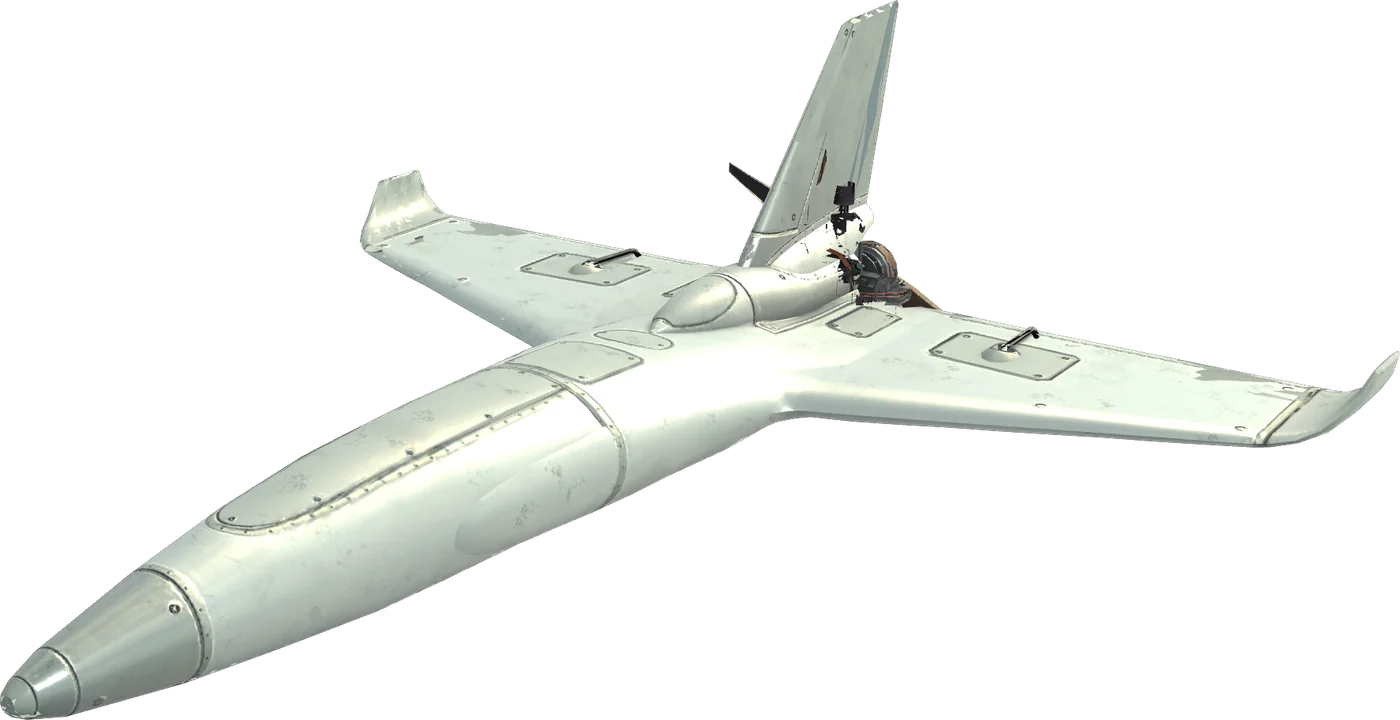
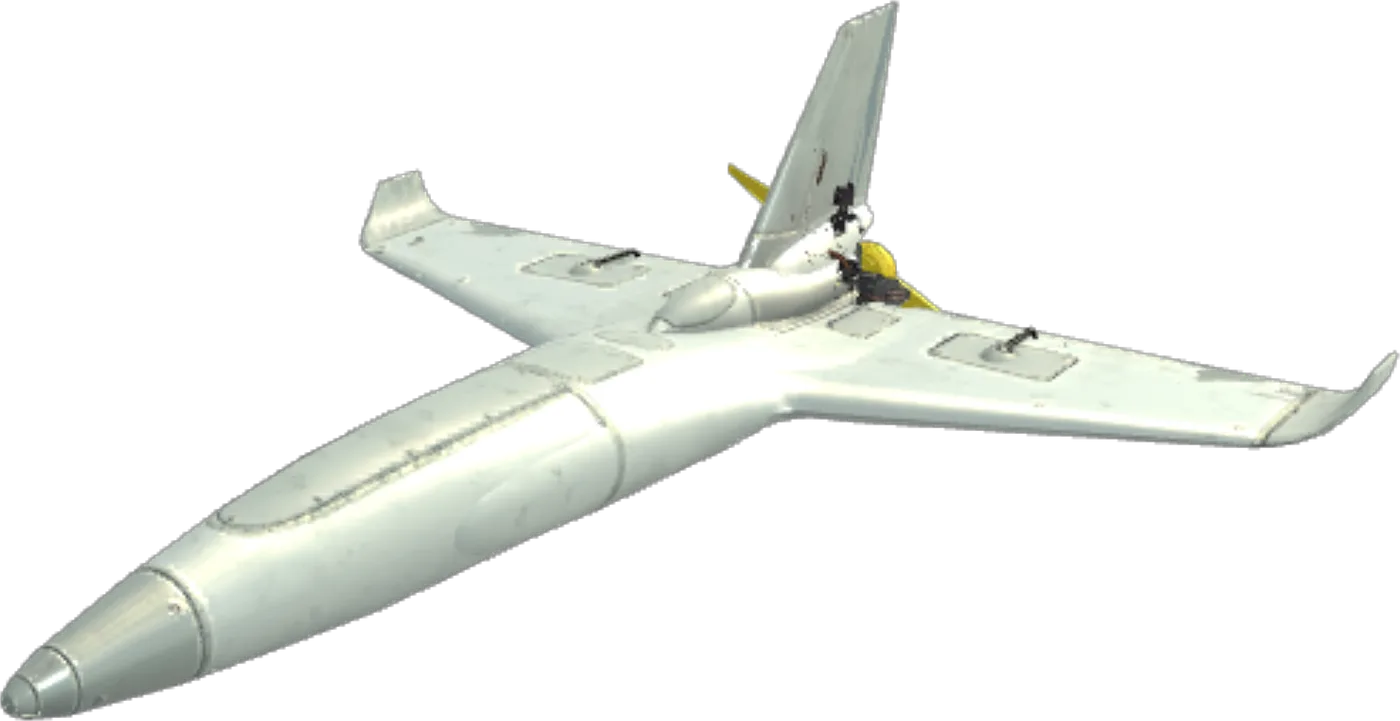
Refresh aircraft and share art for the approved bright propeller release

diff --git a/site/nanawing/aircraft/index.html b/site/nanawing/aircraft/index.html
@@ -1,8 +1,8 @@
-<!doctype html><html lang="en"><head><meta charset="utf-8"><script>if(location.hostname==='www.narenana.com'){var ga=document.createElement('script');ga.async=true;ga.src='https://www.googletagmanager.com/gtag/js?id=G-1KY518LPBH';document.head.appendChild(ga);window.dataLayer=window.dataLayer||[];function gtag(){dataLayer.push(arguments)}gtag('js',new Date());gtag('config','G-1KY518LPBH')}</script><meta name="viewport" content="width=device-width,initial-scale=1"><title>Nanawing aircraft | Pick your wing and fly it free | narenana</title><meta name="description" content="Fly free in your browser or on your phone: start on a trainer, thread the WUDFLY Spectre through giant oaks, or snap the TBS Chupito (Team BlackSheep) round at 360°/s."><meta name="robots" content="index,follow,max-image-preview:large"><link rel="canonical" href="https://www.narenana.com/nanawing/aircraft/"><meta name="theme-color" content="#087bc1"><link rel="icon" href="/assets/avatar.jpg?v=49424a6497"><meta property="og:type" content="website"><meta property="og:site_name" content="narenana"><meta property="og:title" content="Nanawing: fly the WUDFLY Spectre free"><meta property="og:description" content="Thread the 3D-printed, twin-motor WUDFLY Spectre through giant oaks, then try 5 more aircraft. Free in your browser or on your phone."><meta property="og:url" content="https://www.narenana.com/nanawing/aircraft/"><meta property="og:image" content="https://www.narenana.com/nanawing/aircraft/spectre-share-v2.jpg"><meta name="twitter:card" content="summary_large_image"><meta name="twitter:title" content="Nanawing: fly the WUDFLY Spectre free"><meta name="twitter:description" content="Thread the 3D-printed, twin-motor WUDFLY Spectre through giant oaks, then try 5 more aircraft. Free in your browser or on your phone."><meta name="twitter:image" content="https://www.narenana.com/nanawing/aircraft/spectre-share-v2.jpg"><meta property="og:image:alt" content="The WUDFLY Spectre, a white and yellow twin-motor wing, on a blue card that reads: Fly the WUDFLY Spectre. Thread it through giant oaks, then race it on Estate Run."><meta name="twitter:image:alt" content="The WUDFLY Spectre, a white and yellow twin-motor wing, on a blue card that reads: Fly the WUDFLY Spectre. Thread it through giant oaks, then race it on Estate Run."><link rel="stylesheet" href="/assets/family/fonts.css?v=c848c473a8"><link rel="stylesheet" href="/assets/editorial.css?v=f64f49da02"><link rel="stylesheet" href="/assets/family/shell.css?v=dfbc6fd384"><script type="application/ld+json">{"@context":"https://schema.org","@graph":[{"@type":"WebPage","@id":"https://www.narenana.com/nanawing/aircraft/","url":"https://www.narenana.com/nanawing/aircraft/","name":"Nanawing aircraft | Pick your wing and fly it free","description":"Fly free in your browser or on your phone: start on a trainer, thread the WUDFLY Spectre through giant oaks, or snap the TBS Chupito (Team BlackSheep) round at 360°/s.","isPartOf":{"@id":"https://www.narenana.com/#website"},"about":{"@id":"https://sim.narenana.com/#app"}},{"@type":"BreadcrumbList","itemListElement":[{"@type":"ListItem","position":1,"name":"Home","item":"https://www.narenana.com/"},{"@type":"ListItem","position":2,"name":"Nanawing aircraft","item":"https://www.narenana.com/nanawing/aircraft/"}]},{"@type":"ItemList","name":"Nanawing aircraft","itemListElement":[{"@type":"ListItem","position":1,"name":"WUDFLY Spectre","url":"https://www.narenana.com/nanawing/aircraft/#spectre","image":"https://www.narenana.com/assets/nanawing/aircraft/spectre-photo-1200.webp?v=4365a38855"},{"@type":"ListItem","position":2,"name":"Nanawing One","url":"https://www.narenana.com/nanawing/aircraft/#desertwing","image":"https://www.narenana.com/assets/nanawing/aircraft/desertwing-1400.webp?v=f5a654329e"},{"@type":"ListItem","position":3,"name":"Morok UAV","url":"https://www.narenana.com/nanawing/aircraft/#morok","image":"https://www.narenana.com/assets/nanawing/aircraft/morok-1400.webp?v=7be7a0a8c3"},{"@type":"ListItem","position":4,"name":"Sukhoi S-70 Okhotnik","url":"https://www.narenana.com/nanawing/aircraft/#sukhoi","image":"https://www.narenana.com/assets/nanawing/aircraft/sukhoi-1400.webp?v=fbcd52112d"},{"@type":"ListItem","position":5,"name":"TBS Chupito","url":"https://www.narenana.com/nanawing/aircraft/#chupito","image":"https://www.narenana.com/assets/nanawing/aircraft/chupito-1400.webp?v=29c97fc30d"},{"@type":"ListItem","position":6,"name":"Darkwing","url":"https://www.narenana.com/nanawing/aircraft/#darkwing","image":"https://www.narenana.com/assets/nanawing/aircraft/darkwing-1400.webp?v=8d6f057a6d"}]},{"@type":"FAQPage","mainEntity":[{"@type":"Question","name":"How does this help me at the RC field?","acceptedAnswer":{"@type":"Answer","text":"Practise stick inputs, throttle management and planning your turns, and feel how different aircraft respond."}},{"@type":"Question","name":"Which Nanawing aircraft should I fly first?","acceptedAnswer":{"@type":"Answer","text":"Start with the Nanawing One if you are learning the controls. Try the WUDFLY Spectre for tight gaps and yaw. Move to the Morok and Sukhoi to feel how more speed changes your timing, to the TBS Chupito for the quickest roll in the hangar, and to the Darkwing for speed that builds in a hurry. Every aircraft is free, so you can try them all."}},{"@type":"Question","name":"Are the WUDFLY Spectre, the TBS Chupito and the Darkwing in Nanawing the real aircraft?","acceptedAnswer":{"@type":"Answer","text":"No. They're our recreations of WUDFLY's, Team BlackSheep's and Anirudh's wings. The WUDFLY Spectre keeps the real wing's 600mm span, twin motors and white and yellow colours; the TBS Chupito keeps its 800mm span and single pusher prop; the Darkwing keeps its glossy black 3D-printed airframe and twin counter-rotating props. Their handling is a simulator approximation, and the TBS Chupito's is not TBS flight data; the Darkwing's is tuned from flights of the real aircraft. WUDFLY designs and sells the real Spectre at wudfly.com, Team BlackSheep sells the real Chupito at team-blacksheep.com, and Anirudh designed the real Darkwing (instagram.com/anirud.aero)."}},{"@type":"Question","name":"Which aircraft race which course?","acceptedAnswer":{"@type":"Answer","text":"All 6 aircraft race Windmill Run and River Run on the Island, and Tunnel Run and Pyramid Run in the Desert. Take the WUDFLY Spectre or the TBS Chupito to Parkland for Estate Run. Race the pilots flying your wing: set a time, see where you rank, then go back and beat it."}},{"@type":"Question","name":"Do I need a gamepad or RC radio?","acceptedAnswer":{"@type":"Answer","text":"No. All 6 fly on a keyboard or on your phone's thumb sticks. A gamepad or USB RC radio works too: plug it in and set it up in the Hangar's Controls tab. To yaw the WUDFLY Spectre, use a gamepad, an RC radio or your phone's left stick."}}]}]}</script><link rel="stylesheet" href="/assets/nanawing-aircraft.css?v=862eb507d2"></head><body><a class="skip" href="#main">Skip to content</a><header class="nn-header"><div class="nn-bar"><a class="nn-brand" href="/" aria-label="narenana home"><img src="/assets/family/avatar.jpg?v=49424a6497" width="40" height="40" alt="">narenana<span>.</span></a><nav class="nn-desktop" aria-label="Products"><a href="https://sim.narenana.com/"><span>Nanawing</span><small>FPV simulator</small></a><a href="https://nanawing2.narenana.com/"><span>Nanawing 2</span><small>Line-of-sight simulator</small></a><a href="/wings/"><span>Wings</span><small>Compare RC plane prices</small></a><a href="/log-viewer/"><span>Log viewer</span><small>Replay your flight logs</small></a></nav><a class="nn-contact" href="/#contact">Get in touch ↗</a><details class="nn-mobile"><summary>Menu</summary><nav aria-label="Products"><a href="https://sim.narenana.com/"><span>Nanawing</span><small>FPV simulator</small></a><a href="https://nanawing2.narenana.com/"><span>Nanawing 2</span><small>Line-of-sight simulator</small></a><a href="/wings/"><span>Wings</span><small>Compare RC plane prices</small></a><a href="/log-viewer/"><span>Log viewer</span><small>Replay your flight logs</small></a><a href="/#contact"><span>Get in touch ↗</span><small>Meet the pilot</small></a></nav></details></div></header><main id="main"><div class="ac-page">
+<!doctype html><html lang="en"><head><meta charset="utf-8"><script>if(location.hostname==='www.narenana.com'){var ga=document.createElement('script');ga.async=true;ga.src='https://www.googletagmanager.com/gtag/js?id=G-1KY518LPBH';document.head.appendChild(ga);window.dataLayer=window.dataLayer||[];function gtag(){dataLayer.push(arguments)}gtag('js',new Date());gtag('config','G-1KY518LPBH')}</script><meta name="viewport" content="width=device-width,initial-scale=1"><title>Nanawing aircraft | Pick your wing and fly it free | narenana</title><meta name="description" content="Fly free in your browser or on your phone: start on a trainer, thread the WUDFLY Spectre through giant oaks, or snap the TBS Chupito (Team BlackSheep) round at 360°/s."><meta name="robots" content="index,follow,max-image-preview:large"><link rel="canonical" href="https://www.narenana.com/nanawing/aircraft/"><meta name="theme-color" content="#087bc1"><link rel="icon" href="/assets/avatar.jpg?v=49424a6497"><meta property="og:type" content="website"><meta property="og:site_name" content="narenana"><meta property="og:title" content="Nanawing: fly the WUDFLY Spectre free"><meta property="og:description" content="Thread the 3D-printed, twin-motor WUDFLY Spectre through giant oaks, then try 5 more aircraft. Free in your browser or on your phone."><meta property="og:url" content="https://www.narenana.com/nanawing/aircraft/"><meta property="og:image" content="https://www.narenana.com/nanawing/aircraft/spectre-share-v3.jpg"><meta name="twitter:card" content="summary_large_image"><meta name="twitter:title" content="Nanawing: fly the WUDFLY Spectre free"><meta name="twitter:description" content="Thread the 3D-printed, twin-motor WUDFLY Spectre through giant oaks, then try 5 more aircraft. Free in your browser or on your phone."><meta name="twitter:image" content="https://www.narenana.com/nanawing/aircraft/spectre-share-v3.jpg"><meta property="og:image:alt" content="The WUDFLY Spectre, a white and yellow twin-motor wing, on a blue card that reads: Fly the WUDFLY Spectre. Thread it through giant oaks, then race it on Estate Run."><meta name="twitter:image:alt" content="The WUDFLY Spectre, a white and yellow twin-motor wing, on a blue card that reads: Fly the WUDFLY Spectre. Thread it through giant oaks, then race it on Estate Run."><link rel="stylesheet" href="/assets/family/fonts.css?v=c848c473a8"><link rel="stylesheet" href="/assets/editorial.css?v=f64f49da02"><link rel="stylesheet" href="/assets/family/shell.css?v=dfbc6fd384"><script type="application/ld+json">{"@context":"https://schema.org","@graph":[{"@type":"WebPage","@id":"https://www.narenana.com/nanawing/aircraft/","url":"https://www.narenana.com/nanawing/aircraft/","name":"Nanawing aircraft | Pick your wing and fly it free","description":"Fly free in your browser or on your phone: start on a trainer, thread the WUDFLY Spectre through giant oaks, or snap the TBS Chupito (Team BlackSheep) round at 360°/s.","isPartOf":{"@id":"https://www.narenana.com/#website"},"about":{"@id":"https://sim.narenana.com/#app"}},{"@type":"BreadcrumbList","itemListElement":[{"@type":"ListItem","position":1,"name":"Home","item":"https://www.narenana.com/"},{"@type":"ListItem","position":2,"name":"Nanawing aircraft","item":"https://www.narenana.com/nanawing/aircraft/"}]},{"@type":"ItemList","name":"Nanawing aircraft","itemListElement":[{"@type":"ListItem","position":1,"name":"WUDFLY Spectre","url":"https://www.narenana.com/nanawing/aircraft/#spectre","image":"https://www.narenana.com/assets/nanawing/aircraft/spectre-photo-1200.webp?v=4365a38855"},{"@type":"ListItem","position":2,"name":"Nanawing One","url":"https://www.narenana.com/nanawing/aircraft/#desertwing","image":"https://www.narenana.com/assets/nanawing/aircraft/desertwing-1400.webp?v=fc598b1245"},{"@type":"ListItem","position":3,"name":"Morok UAV","url":"https://www.narenana.com/nanawing/aircraft/#morok","image":"https://www.narenana.com/assets/nanawing/aircraft/morok-1400.webp?v=8c129a589f"},{"@type":"ListItem","position":4,"name":"Sukhoi S-70 Okhotnik","url":"https://www.narenana.com/nanawing/aircraft/#sukhoi","image":"https://www.narenana.com/assets/nanawing/aircraft/sukhoi-1400.webp?v=fbcd52112d"},{"@type":"ListItem","position":5,"name":"TBS Chupito","url":"https://www.narenana.com/nanawing/aircraft/#chupito","image":"https://www.narenana.com/assets/nanawing/aircraft/chupito-1400.webp?v=29c97fc30d"},{"@type":"ListItem","position":6,"name":"Darkwing","url":"https://www.narenana.com/nanawing/aircraft/#darkwing","image":"https://www.narenana.com/assets/nanawing/aircraft/darkwing-1400.webp?v=8d6f057a6d"}]},{"@type":"FAQPage","mainEntity":[{"@type":"Question","name":"How does this help me at the RC field?","acceptedAnswer":{"@type":"Answer","text":"Practise stick inputs, throttle management and planning your turns, and feel how different aircraft respond."}},{"@type":"Question","name":"Which Nanawing aircraft should I fly first?","acceptedAnswer":{"@type":"Answer","text":"Start with the Nanawing One if you are learning the controls. Try the WUDFLY Spectre for tight gaps and yaw. Move to the Morok and Sukhoi to feel how more speed changes your timing, to the TBS Chupito for the quickest roll in the hangar, and to the Darkwing for speed that builds in a hurry. Every aircraft is free, so you can try them all."}},{"@type":"Question","name":"Are the WUDFLY Spectre, the TBS Chupito and the Darkwing in Nanawing the real aircraft?","acceptedAnswer":{"@type":"Answer","text":"No. They're our recreations of WUDFLY's, Team BlackSheep's and Anirudh's wings. The WUDFLY Spectre keeps the real wing's 600mm span, twin motors and white and yellow colours; the TBS Chupito keeps its 800mm span and single pusher prop; the Darkwing keeps its glossy black 3D-printed airframe and twin counter-rotating props. Their handling is a simulator approximation, and the TBS Chupito's is not TBS flight data; the Darkwing's is tuned from flights of the real aircraft. WUDFLY designs and sells the real Spectre at wudfly.com, Team BlackSheep sells the real Chupito at team-blacksheep.com, and Anirudh designed the real Darkwing (instagram.com/anirud.aero)."}},{"@type":"Question","name":"Which aircraft race which course?","acceptedAnswer":{"@type":"Answer","text":"All 6 aircraft race Windmill Run and River Run on the Island, and Tunnel Run and Pyramid Run in the Desert. Take the WUDFLY Spectre or the TBS Chupito to Parkland for Estate Run. Race the pilots flying your wing: set a time, see where you rank, then go back and beat it."}},{"@type":"Question","name":"Do I need a gamepad or RC radio?","acceptedAnswer":{"@type":"Answer","text":"No. All 6 fly on a keyboard or on your phone's thumb sticks. A gamepad or USB RC radio works too: plug it in and set it up in the Hangar's Controls tab. To yaw the WUDFLY Spectre, use a gamepad, an RC radio or your phone's left stick."}}]}]}</script><link rel="stylesheet" href="/assets/nanawing-aircraft.css?v=862eb507d2"></head><body><a class="skip" href="#main">Skip to content</a><header class="nn-header"><div class="nn-bar"><a class="nn-brand" href="/" aria-label="narenana home"><img src="/assets/family/avatar.jpg?v=49424a6497" width="40" height="40" alt="">narenana<span>.</span></a><nav class="nn-desktop" aria-label="Products"><a href="https://sim.narenana.com/"><span>Nanawing</span><small>FPV simulator</small></a><a href="https://nanawing2.narenana.com/"><span>Nanawing 2</span><small>Line-of-sight simulator</small></a><a href="/wings/"><span>Wings</span><small>Compare RC plane prices</small></a><a href="/log-viewer/"><span>Log viewer</span><small>Replay your flight logs</small></a></nav><a class="nn-contact" href="/#contact">Get in touch ↗</a><details class="nn-mobile"><summary>Menu</summary><nav aria-label="Products"><a href="https://sim.narenana.com/"><span>Nanawing</span><small>FPV simulator</small></a><a href="https://nanawing2.narenana.com/"><span>Nanawing 2</span><small>Line-of-sight simulator</small></a><a href="/wings/"><span>Wings</span><small>Compare RC plane prices</small></a><a href="/log-viewer/"><span>Log viewer</span><small>Replay your flight logs</small></a><a href="/#contact"><span>Get in touch ↗</span><small>Meet the pilot</small></a></nav></details></div></header><main id="main"><div class="ac-page">
 <nav class="crumbs" aria-label="Breadcrumb"><a href="/">Home</a> / Nanawing aircraft</nav>
 <div class="ac-hero"><span class="eyebrow">NANAWING / FREE FPV SIMULATOR</span><h1>Pick your wing<br><span>and fly it free.</span></h1><p class="lede">Thread the 3D-printed WUDFLY Spectre through giant oaks, snap the TBS Chupito round at 360°/s, open the Sukhoi up to 323 km/h, carry the Darkwing's speed through wide turns, or settle in on a forgiving trainer before your next day at the field. All 6 fly free in your browser, on a laptop or on your phone. No install, no login.</p>
 <div class="ac-actions"><a class="ac-btn" href="https://sim.narenana.com/?play&amp;aircraft=spectre" target="_blank" rel="noopener">Start flying <span aria-hidden="true">↗</span></a><a class="ac-link" href="#compare">Compare the 6 aircraft <span aria-hidden="true">↓</span></a></div>
-<ul class="ac-lineup" aria-label="The 6 aircraft"><li><a href="#spectre"><img src="/assets/nanawing/aircraft/spectre-900.webp?v=7a7cc3f3dd" srcset="/assets/nanawing/aircraft/spectre-560.webp?v=c5f88ce574 560w, /assets/nanawing/aircraft/spectre-900.webp?v=7a7cc3f3dd 900w, /assets/nanawing/aircraft/spectre-1400.webp?v=3e78b52736 1400w" sizes="(max-width:859px) 46vw, 230px" alt="WUDFLY Spectre, a white and yellow twin-motor flying wing with SPECTRE and WUDFLY lettering" width="900" height="511" fetchpriority="high"><span class="ac-lineup-name">WUDFLY Spectre</span><span class="ac-lineup-role">Made for tight gaps</span></a></li><li><a href="#desertwing"><img src="/assets/nanawing/aircraft/desertwing-900.webp?v=9b769b9d66" srcset="/assets/nanawing/aircraft/desertwing-560.webp?v=13810c0ac0 560w, /assets/nanawing/aircraft/desertwing-900.webp?v=9b769b9d66 900w, /assets/nanawing/aircraft/desertwing-1400.webp?v=f5a654329e 1400w" sizes="(max-width:859px) 46vw, 230px" alt="Nanawing One, a blue flying wing with a single pusher prop" width="900" height="488" fetchpriority="high"><span class="ac-lineup-name">Nanawing One</span><span class="ac-lineup-role">Forgiving trainer</span></a></li><li><a href="#morok"><img src="/assets/nanawing/aircraft/morok-900.webp?v=6a83b1f494" srcset="/assets/nanawing/aircraft/morok-560.webp?v=bbaafd7eb1 560w, /assets/nanawing/aircraft/morok-900.webp?v=6a83b1f494 900w, /assets/nanawing/aircraft/morok-1400.webp?v=7be7a0a8c3 1400w" sizes="(max-width:859px) 46vw, 230px" alt="Morok UAV, a silver drone with a V-tail and a pusher prop" width="900" height="463" loading="lazy" decoding="async"><span class="ac-lineup-name">Morok UAV</span><span class="ac-lineup-role">Step up from the One</span></a></li><li><a href="#sukhoi"><img src="/assets/nanawing/aircraft/sukhoi-900.webp?v=2dbaad485b" srcset="/assets/nanawing/aircraft/sukhoi-560.webp?v=9e1e25080a 560w, /assets/nanawing/aircraft/sukhoi-900.webp?v=2dbaad485b 900w, /assets/nanawing/aircraft/sukhoi-1400.webp?v=fbcd52112d 1400w" sizes="(max-width:859px) 46vw, 230px" alt="Sukhoi S-70 Okhotnik, a grey, angular flying wing" width="900" height="675" loading="lazy" decoding="async"><span class="ac-lineup-name">Sukhoi S-70 Okhotnik</span><span class="ac-lineup-role">Fastest in the hangar</span></a></li><li><a href="#chupito"><img src="/assets/nanawing/aircraft/chupito-900.webp?v=db683fad38" srcset="/assets/nanawing/aircraft/chupito-560.webp?v=b57ab305ad 560w, /assets/nanawing/aircraft/chupito-900.webp?v=db683fad38 900w, /assets/nanawing/aircraft/chupito-1400.webp?v=29c97fc30d 1400w" sizes="(max-width:859px) 46vw, 230px" alt="TBS Chupito, a dark grey flying wing with a single fin, a red pusher prop and white logos and lettering" width="900" height="440" loading="lazy" decoding="async"><span class="ac-lineup-name">TBS Chupito</span><span class="ac-lineup-role">Quickest roll in the hangar</span></a></li><li><a href="#darkwing"><img src="/assets/nanawing/aircraft/darkwing-900.webp?v=65707d042b" srcset="/assets/nanawing/aircraft/darkwing-560.webp?v=f61c99f7dd 560w, /assets/nanawing/aircraft/darkwing-900.webp?v=65707d042b 900w, /assets/nanawing/aircraft/darkwing-1400.webp?v=8d6f057a6d 1400w" sizes="(max-width:859px) 46vw, 230px" alt="Darkwing, a glossy black 3D-printed flying wing with two blue pusher props" width="900" height="555" loading="lazy" decoding="async"><span class="ac-lineup-name">Darkwing</span><span class="ac-lineup-role">Built for fast passes</span></a></li></ul></div>
+<ul class="ac-lineup" aria-label="The 6 aircraft"><li><a href="#spectre"><img src="/assets/nanawing/aircraft/spectre-900.webp?v=f2adccac5a" srcset="/assets/nanawing/aircraft/spectre-560.webp?v=2a6bae5c45 560w, /assets/nanawing/aircraft/spectre-900.webp?v=f2adccac5a 900w, /assets/nanawing/aircraft/spectre-1400.webp?v=41cc271bb7 1400w" sizes="(max-width:859px) 46vw, 230px" alt="WUDFLY Spectre, a white and yellow twin-motor flying wing with SPECTRE and WUDFLY lettering" width="900" height="513" fetchpriority="high"><span class="ac-lineup-name">WUDFLY Spectre</span><span class="ac-lineup-role">Made for tight gaps</span></a></li><li><a href="#desertwing"><img src="/assets/nanawing/aircraft/desertwing-900.webp?v=cb62a09735" srcset="/assets/nanawing/aircraft/desertwing-560.webp?v=36301a1d51 560w, /assets/nanawing/aircraft/desertwing-900.webp?v=cb62a09735 900w, /assets/nanawing/aircraft/desertwing-1400.webp?v=fc598b1245 1400w" sizes="(max-width:859px) 46vw, 230px" alt="Nanawing One, a blue flying wing with a single pusher prop" width="900" height="488" fetchpriority="high"><span class="ac-lineup-name">Nanawing One</span><span class="ac-lineup-role">Forgiving trainer</span></a></li><li><a href="#morok"><img src="/assets/nanawing/aircraft/morok-900.webp?v=f97043b054" srcset="/assets/nanawing/aircraft/morok-560.webp?v=8f5c68501a 560w, /assets/nanawing/aircraft/morok-900.webp?v=f97043b054 900w, /assets/nanawing/aircraft/morok-1400.webp?v=8c129a589f 1400w" sizes="(max-width:859px) 46vw, 230px" alt="Morok UAV, a silver swept wing with a single fin and a pusher prop" width="900" height="463" loading="lazy" decoding="async"><span class="ac-lineup-name">Morok UAV</span><span class="ac-lineup-role">Step up from the One</span></a></li><li><a href="#sukhoi"><img src="/assets/nanawing/aircraft/sukhoi-900.webp?v=2dbaad485b" srcset="/assets/nanawing/aircraft/sukhoi-560.webp?v=9e1e25080a 560w, /assets/nanawing/aircraft/sukhoi-900.webp?v=2dbaad485b 900w, /assets/nanawing/aircraft/sukhoi-1400.webp?v=fbcd52112d 1400w" sizes="(max-width:859px) 46vw, 230px" alt="Sukhoi S-70 Okhotnik, a grey, angular flying wing" width="900" height="675" loading="lazy" decoding="async"><span class="ac-lineup-name">Sukhoi S-70 Okhotnik</span><span class="ac-lineup-role">Fastest in the hangar</span></a></li><li><a href="#chupito"><img src="/assets/nanawing/aircraft/chupito-900.webp?v=db683fad38" srcset="/assets/nanawing/aircraft/chupito-560.webp?v=b57ab305ad 560w, /assets/nanawing/aircraft/chupito-900.webp?v=db683fad38 900w, /assets/nanawing/aircraft/chupito-1400.webp?v=29c97fc30d 1400w" sizes="(max-width:859px) 46vw, 230px" alt="TBS Chupito, a dark grey flying wing with a single fin, a red pusher prop and white logos and lettering" width="900" height="440" loading="lazy" decoding="async"><span class="ac-lineup-name">TBS Chupito</span><span class="ac-lineup-role">Quickest roll in the hangar</span></a></li><li><a href="#darkwing"><img src="/assets/nanawing/aircraft/darkwing-900.webp?v=65707d042b" srcset="/assets/nanawing/aircraft/darkwing-560.webp?v=f61c99f7dd 560w, /assets/nanawing/aircraft/darkwing-900.webp?v=65707d042b 900w, /assets/nanawing/aircraft/darkwing-1400.webp?v=8d6f057a6d 1400w" sizes="(max-width:859px) 46vw, 230px" alt="Darkwing, a glossy black 3D-printed flying wing with two blue pusher props" width="900" height="555" loading="lazy" decoding="async"><span class="ac-lineup-name">Darkwing</span><span class="ac-lineup-role">Built for fast passes</span></a></li></ul></div>
 <section class="ac-practice" aria-labelledby="practice-title"><h2 id="practice-title">Learn a new wing without a repair bill</h2><p>Learning a new wing is the fun part: how much stick it wants, when to ease off the throttle, how early to start a turn. The forgiving trainer, the nimble twin-motor WUDFLY Spectre, the quick-rolling TBS Chupito, the hard-accelerating Darkwing and the fast, heavy Sukhoi each give you something new to work on.</p><p>Try them all. Repeat a manoeuvre until it's clean, fly a new line or race a course, and when you crash, reset and go again. Plug in a gamepad or USB RC radio to practise on sticks, or start on the keyboard or your phone.</p></section>
 <section class="ac-compare" id="compare" aria-labelledby="compare-title"><h2 id="compare-title">Compare the 6 aircraft side by side</h2>
 <div class="ac-table-wrap" role="region" aria-labelledby="compare-title" tabindex="0"><table class="ac-table"><thead><tr><th scope="col">Aircraft</th><th scope="col">Top speed</th><th scope="col">Stall speed</th><th scope="col">Roll rate</th><th scope="col">Climb rate</th><th scope="col">Wingspan</th><th scope="col">Weight</th><th scope="col">Thrust</th><th scope="col">Battery</th></tr></thead>
@@ -23,7 +23,7 @@
 <ul class="ac-gallery"><li><img src="/assets/nanawing/aircraft/spectre-photo-4-900.webp?v=e0b9ac9647" srcset="/assets/nanawing/aircraft/spectre-photo-4-600.webp?v=c6710cbabb 600w, /assets/nanawing/aircraft/spectre-photo-4-900.webp?v=e0b9ac9647 900w" sizes="(max-width:600px) 46vw, 340px" alt="A pilot holding the WUDFLY Spectre by its fuselage in an open field, ready to launch" width="900" height="1200" loading="lazy" decoding="async"></li><li><img src="/assets/nanawing/aircraft/spectre-photo-6-1200.webp?v=5f9a172d30" srcset="/assets/nanawing/aircraft/spectre-photo-6-600.webp?v=71b3fd0734 600w, /assets/nanawing/aircraft/spectre-photo-6-1200.webp?v=5f9a172d30 1200w" sizes="(max-width:600px) 46vw, 340px" alt="A grey WUDFLY Spectre on a workbench in front of the WUDFLY logo" width="1200" height="900" loading="lazy" decoding="async"></li><li><img src="/assets/nanawing/aircraft/spectre-photo-8-1200.webp?v=b159b64256" srcset="/assets/nanawing/aircraft/spectre-photo-8-600.webp?v=ac65d943b5 600w, /assets/nanawing/aircraft/spectre-photo-8-1200.webp?v=b159b64256 1200w" sizes="(max-width:600px) 46vw, 340px" alt="Inside the WUDFLY Spectre: flight controller, receiver and wiring in the 3D-printed fuselage" width="1200" height="900" loading="lazy" decoding="async"></li></ul><p class="ac-note">Photos: WUDFLY, from wudfly.com</p>
 <h4>The real Spectre, flown by WUDFLY</h4><ul class="ac-videos"><li><a class="ac-yt" href="https://www.youtube.com/watch?v=MaVMHJFvd5g" data-yt="MaVMHJFvd5g" target="_blank" rel="noopener"><img src="https://i.ytimg.com/vi/MaVMHJFvd5g/hqdefault.jpg" alt="" width="480" height="360" loading="lazy" decoding="async"><span class="ac-yt-play" aria-hidden="true">▶</span><span class="sr-only">Play: Ride of the SPECTRE | Full FPV Flight</span></a><p class="ac-yt-title">Ride of the SPECTRE | Full FPV Flight</p></li><li><a class="ac-yt" href="https://www.youtube.com/watch?v=UwFGTptRYRU" data-yt="UwFGTptRYRU" target="_blank" rel="noopener"><img src="https://i.ytimg.com/vi/UwFGTptRYRU/hqdefault.jpg" alt="" width="480" height="360" loading="lazy" decoding="async"><span class="ac-yt-play" aria-hidden="true">▶</span><span class="sr-only">Play: 215g 3D-Printed FPV Wing Build Breakdown | WUDFLY SPECTRE</span></a><p class="ac-yt-title">215g 3D-Printed FPV Wing Build Breakdown | WUDFLY SPECTRE</p></li><li><a class="ac-yt" href="https://www.youtube.com/watch?v=vaqDeINMnJQ" data-yt="vaqDeINMnJQ" target="_blank" rel="noopener"><img src="https://i.ytimg.com/vi/vaqDeINMnJQ/hqdefault.jpg" alt="" width="480" height="360" loading="lazy" decoding="async"><span class="ac-yt-play" aria-hidden="true">▶</span><span class="sr-only">Play: 215g 3D Printed FPV Wing | DJI O4 Wide – WUDFLY Spectre</span></a><p class="ac-yt-title">215g 3D Printed FPV Wing | DJI O4 Wide – WUDFLY Spectre</p></li></ul></div></section>
 <section class="ac-craft ac-craft--flip" id="desertwing" aria-labelledby="desertwing-title">
-<figure class="ac-craft-img"><img src="/assets/nanawing/aircraft/desertwing-900.webp?v=9b769b9d66" srcset="/assets/nanawing/aircraft/desertwing-560.webp?v=13810c0ac0 560w, /assets/nanawing/aircraft/desertwing-900.webp?v=9b769b9d66 900w, /assets/nanawing/aircraft/desertwing-1400.webp?v=f5a654329e 1400w" sizes="(max-width:860px) 92vw, 520px" alt="Nanawing One, a blue flying wing with a single pusher prop" width="900" height="488" loading="lazy" decoding="async"></figure>
+<figure class="ac-craft-img"><img src="/assets/nanawing/aircraft/desertwing-900.webp?v=cb62a09735" srcset="/assets/nanawing/aircraft/desertwing-560.webp?v=36301a1d51 560w, /assets/nanawing/aircraft/desertwing-900.webp?v=cb62a09735 900w, /assets/nanawing/aircraft/desertwing-1400.webp?v=fc598b1245 1400w" sizes="(max-width:860px) 92vw, 520px" alt="Nanawing One, a blue flying wing with a single pusher prop" width="900" height="488" loading="lazy" decoding="async"></figure>
 <div class="ac-craft-body"><span class="eyebrow">02 / FORGIVING TRAINER</span><h2 id="desertwing-title">Nanawing One</h2>
 <p class="ac-credit">Original model by narenana</p>
 <p>Start here. The Nanawing One has the lowest stall speed in the hangar and a quick roll, so it stays forgiving while you learn to hold a line, bank smoothly and work pitch and throttle together.</p><p>Once the basics click, the One still has 191 km/h of top speed, plenty for your first laps of Windmill Run.</p>
@@ -34,7 +34,7 @@
 <a class="ac-btn" href="https://sim.narenana.com/?play&amp;aircraft=desertwing" target="_blank" rel="noopener">Fly the Nanawing One <span aria-hidden="true">↗</span></a>
 </div></section>
 <section class="ac-craft" id="morok" aria-labelledby="morok-title">
-<figure class="ac-craft-img"><img src="/assets/nanawing/aircraft/morok-900.webp?v=6a83b1f494" srcset="/assets/nanawing/aircraft/morok-560.webp?v=bbaafd7eb1 560w, /assets/nanawing/aircraft/morok-900.webp?v=6a83b1f494 900w, /assets/nanawing/aircraft/morok-1400.webp?v=7be7a0a8c3 1400w" sizes="(max-width:860px) 92vw, 520px" alt="Morok UAV, a silver drone with a V-tail and a pusher prop" width="900" height="463" loading="lazy" decoding="async"></figure>
+<figure class="ac-craft-img"><img src="/assets/nanawing/aircraft/morok-900.webp?v=f97043b054" srcset="/assets/nanawing/aircraft/morok-560.webp?v=8f5c68501a 560w, /assets/nanawing/aircraft/morok-900.webp?v=f97043b054 900w, /assets/nanawing/aircraft/morok-1400.webp?v=8c129a589f 1400w" sizes="(max-width:860px) 92vw, 520px" alt="Morok UAV, a silver swept wing with a single fin and a pusher prop" width="900" height="463" loading="lazy" decoding="async"></figure>
 <div class="ac-craft-body"><span class="eyebrow">03 / STEP UP FROM THE ONE</span><h2 id="morok-title">Morok UAV</h2>
 <p class="ac-credit">Model: <a href="https://sketchfab.com/3d-models/morok-uav-drone-3d-model-3ae0e923b50f4885a2317eba199043cd" target="_blank" rel="noopener">“Morok UAV Drone 3D Model”</a> by rombic992, <a href="https://creativecommons.org/licenses/by/4.0/" target="_blank" rel="noopener">CC BY 4.0</a>. Modified for Nanawing.</p>
 <p>Fly a route you know in the One, then take the Morok around it and feel your timing change. With 249 km/h of top speed and a slower roll, you look further ahead and start your turns sooner.</p><p>Manage your speed, leave room for the bank and see how smoothly you can link one turn into the next.</p>

diff --git a/docs/site-consolidation-plan.md b/docs/site-consolidation-plan.md
@@ -271,7 +271,7 @@ Rules: every old URL gets one 301 to its exact new URL, never a chain or a catch
 
 Found on the live sites on 6 Oct.
 
-- [ ] **21 Oct, livery branch release follow-up:** regenerate www's Nanawing One, Morok and Spectre aircraft images from the bright-prop variants (orange/yellow/orange) and refresh image hashes before releasing that branch. Sim Hangar, homepage, leaderboard, maps and guide thumbnails are updated already. Existing Chupito red and Darkwing blue remain unchanged. No aircraft specifications or page copy change.
+- [x] **21 Oct, livery release artwork:** regenerated www's Nanawing One, Morok and Spectre aircraft images from the bright-prop variants (orange/yellow/orange), refreshed image hashes and versioned the Spectre share card as v3. Sim Hangar, homepage, leaderboard, maps and guide thumbnails match. Chupito red and Darkwing blue remain unchanged. Corrected Morok's image description to its actual single fin; no aircraft specification change.
 
 **M2 status (6 Oct, 17:30 IST).** The owner approved the release on 6 Oct.
 
